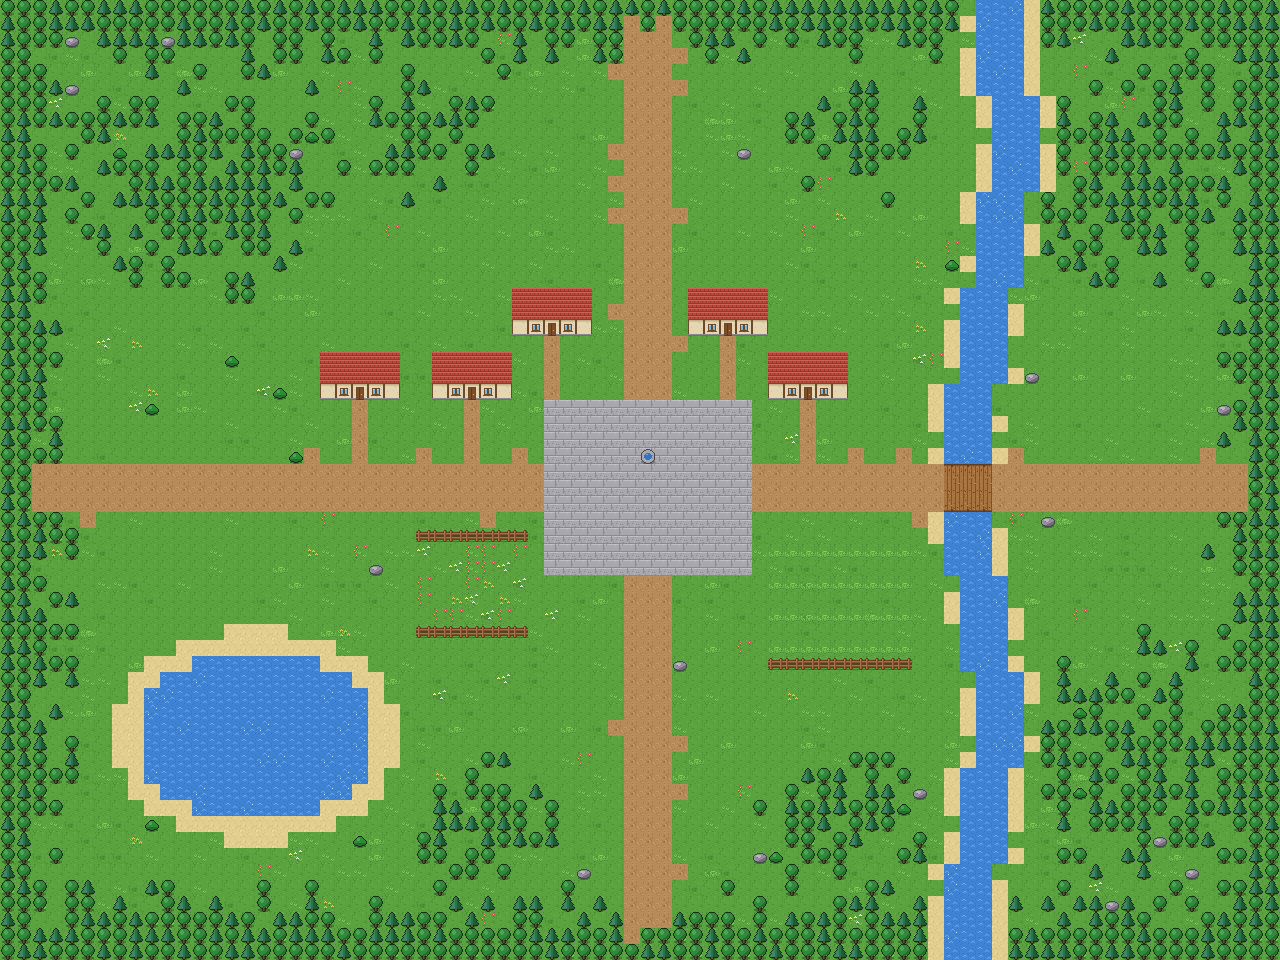
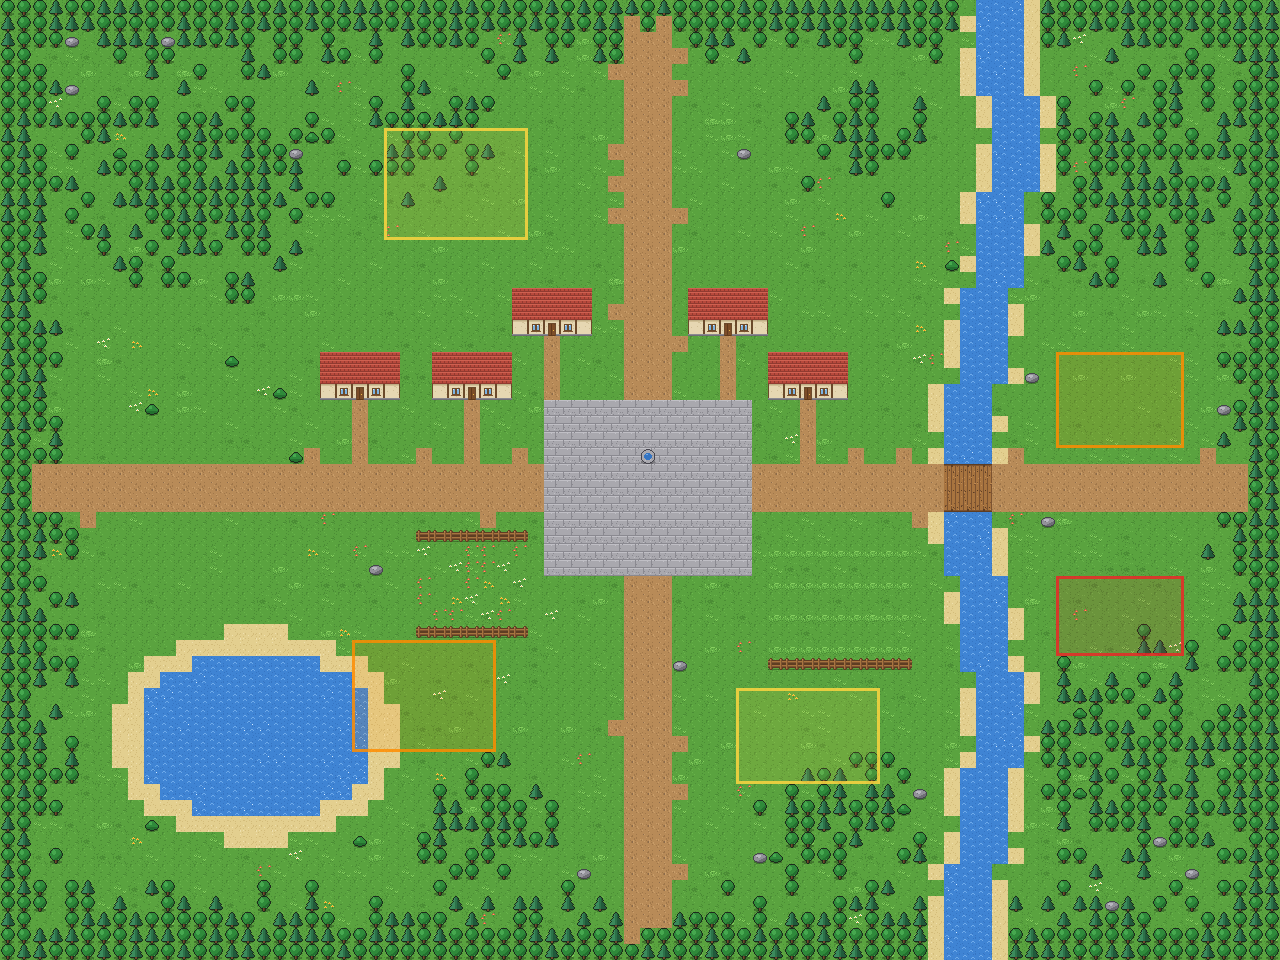
Mapa da documentação mostra as áreas de cada monstro
Claude-Session: https://claude.ai/code/session_017ztkRBK34cTuyazDyAE2Dr

diff --git a/scripts/render-map.ts b/scripts/render-map.ts
@@ -42,6 +42,31 @@ for (const layer of map.layers) {
   });
 }
 
+// Áreas de monstros (camada "monstros"): uma moldura colorida por criatura.
+const ZONE_COLORS: Record<string, [number, number, number]> = {
+  sagui: [255, 214, 64],
+  jararaca: [255, 140, 0],
+  saci: [235, 40, 40],
+};
+const zoneLayer = (map as unknown as { layers: { name: string; type: string; objects?: { name: string; x: number; y: number; width: number; height: number }[] }[] }).layers.find(
+  (l) => l.type === 'objectgroup' && l.name.toLowerCase() === 'monstros',
+);
+for (const zone of zoneLayer?.objects ?? []) {
+  const color = ZONE_COLORS[zone.name] ?? [180, 120, 255];
+  const x0 = Math.round(zone.x);
+  const y0 = Math.round(zone.y);
+  const x1 = Math.min(width - 1, Math.round(zone.x + zone.width) - 1);
+  const y1 = Math.min(height - 1, Math.round(zone.y + zone.height) - 1);
+  for (let y = y0; y <= y1; y++) {
+    for (let x = x0; x <= x1; x++) {
+      const border = x - x0 < 3 || x1 - x < 3 || y - y0 < 3 || y1 - y < 3;
+      const d = (y * width + x) * 4;
+      const a = border ? 0.85 : 0.12;
+      for (let k = 0; k < 3; k++) rgba[d + k] = Math.round(color[k]! * a + rgba[d + k]! * (1 - a));
+    }
+  }
+}
+
 // Pixel art usa poucas cores: um PNG com paleta fica ~15x menor que o normal.
 const CRC_TABLE = Array.from({ length: 256 }, (_, n) => {
   let c = n;

diff --git a/README.md b/README.md
@@ -99,6 +99,8 @@ Depois de salvar, reinicie o servidor e recarregue o jogo.
 
 ![Mapa da vila inicial](docs/mapa.png)
 
+Áreas de monstros no mapa: **amarelo** = Sagui Travesso, **laranja** = Jararaca, **vermelho** = Saci.
+
 ## Organização
 
 | Pasta | O que tem |
